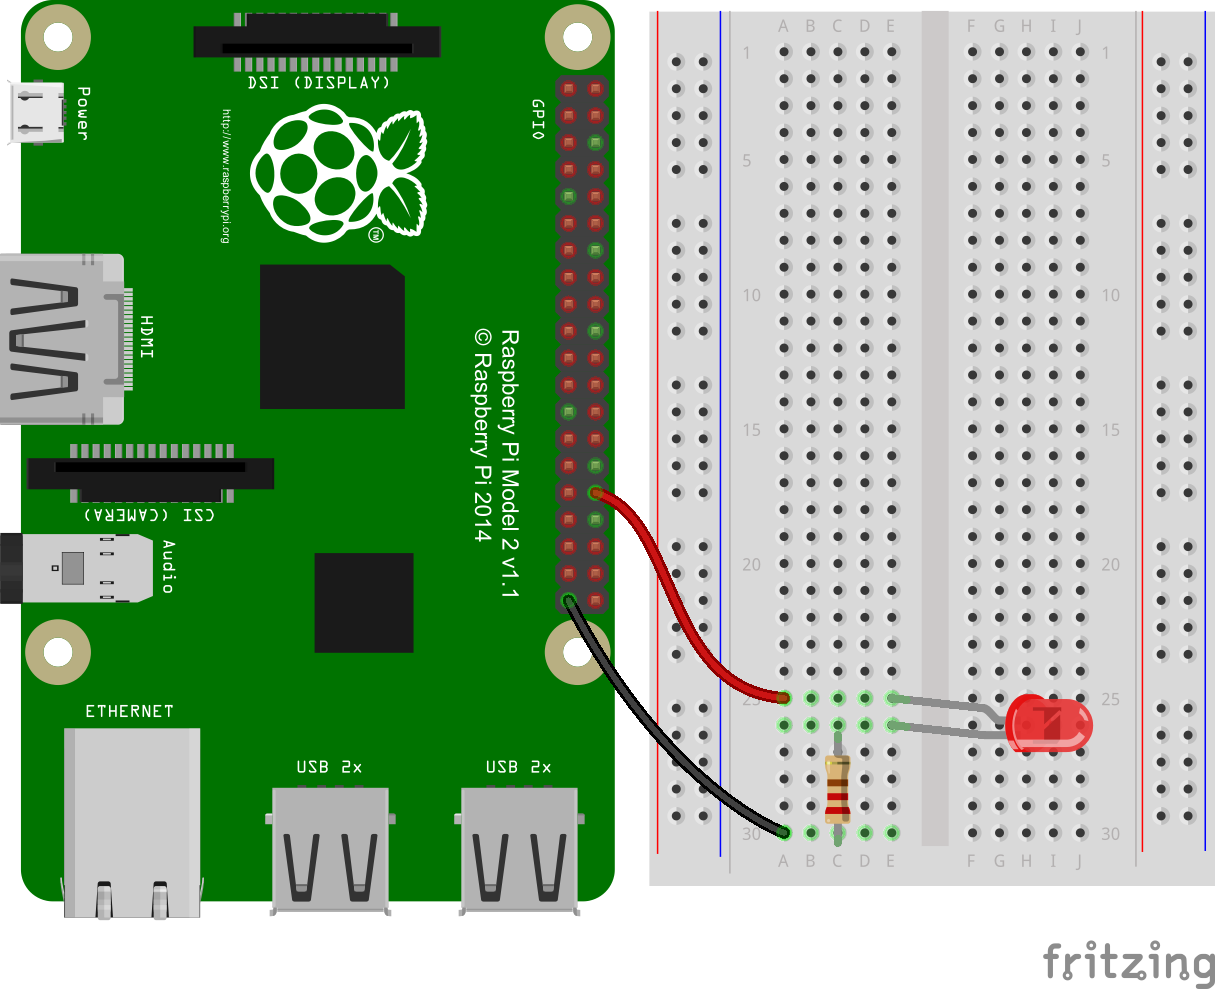
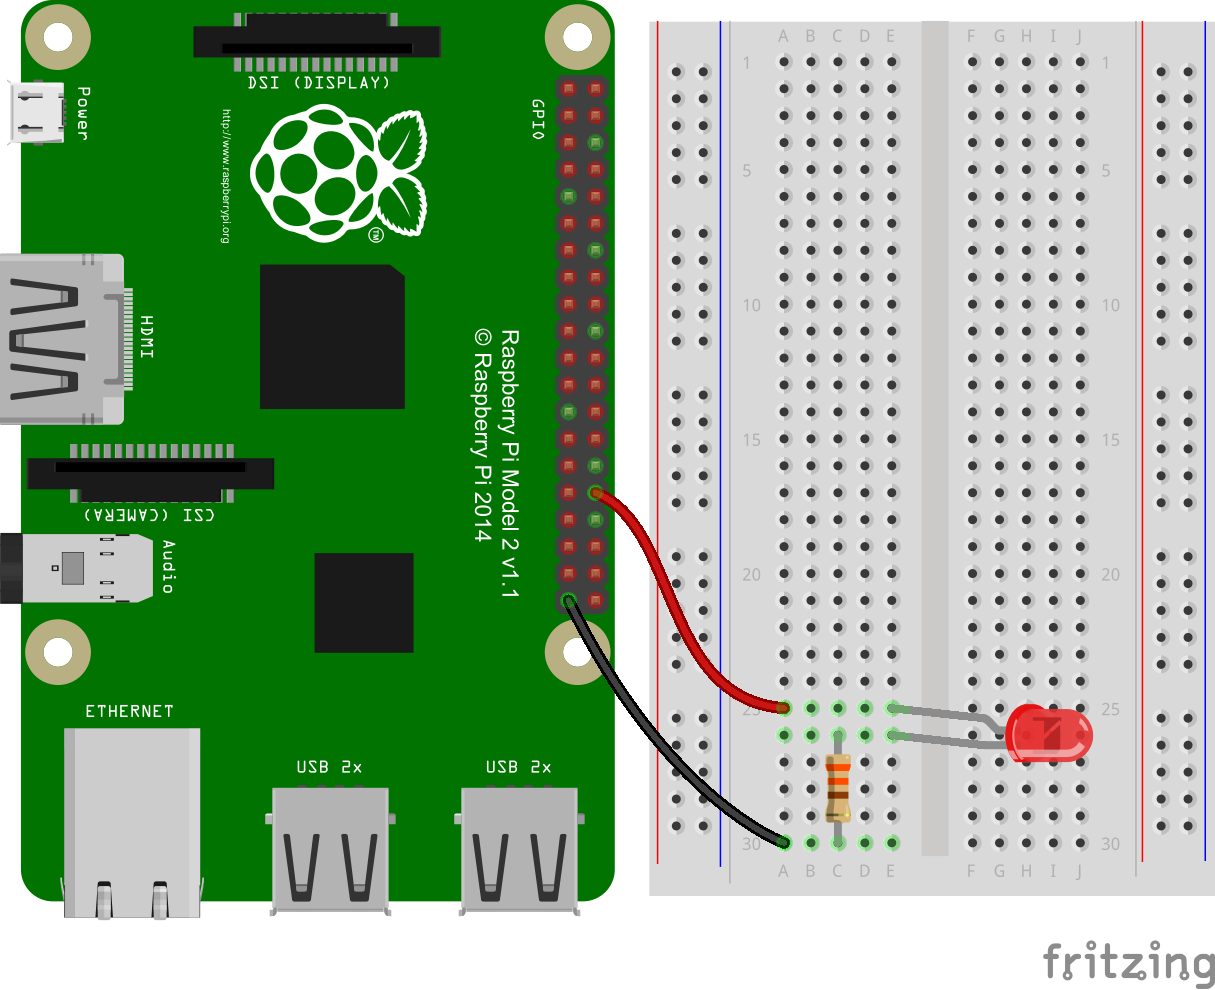
Lab 03 code and layout

diff --git a/pages/rpi2/rpi2_lab003.md b/pages/rpi2/rpi2_lab003.md
@@ -1,0 +1,336 @@
+---
+layout: page-fullwidth
+title: "Sending Data to the Cloud"
+subheadline: "Raspberry Pi IoT Lab 3"
+teaser: "In this lab you will build a Universal Windows Platform application that collects ambient light data and sends it to the Cloud."
+show_meta: true
+comments: true
+header: no
+breadcrumb: true
+categories:
+    - rpi2
+author: "Doug Seven"
+permalink: /rpi2/03/
+---
+
+### Table of Contents
+*  Auto generated table of contents
+{:toc}
+
+If you haven't already done so, please follow the instructions in [Lab 00: Getting Started](/rpi2/00/) section.
+
+In this lab you will build a Universal Windows Platform application that detects ambient light and sends the data that is being collected to Azure IoT Hub. In following lab you will build a data pipeline to process the incoming data stream and output it to a visualization tool.
+
+## Bill of Materials
+What you will need:
+
+1. [Raspberry Pi 2 - $42.00](http://www.amazon.com/Raspberry-Pi-Model-Project-Board/dp/B00T2U7R7I/)
+2. [5V 2A Switching Power Supply w/ 20AWG 6' MicroUSB Cable - $7.95](https://www.adafruit.com/product/1995)
+3. [(2) Jumper wires (Male to Female) - $1.95](https://www.adafruit.com/product/1954)
+4. [(1) Red LED - 25 for $8.00](http://www.adafruit.com/products/297)
+5. [(1) 330 Ohm resistors - 100 for $3.90](http://www.amazon.com/E-Projects-Resistors-Watt-330R-Pieces/dp/B00BVOR6IS/)
+6. 8GB micro SD card - class 10 or better. Microsoft suggests [this one](http://www.amazon.com/gp/product/B00IVPU786) or [this one](http://www.amazon.com/SanDisk-Ultra-Micro-SDHC-16GB/dp/9966573445).
+7. Micro SD card writer
+
+
+## Wire Up the RPi2
+Wire up the RPi2 according to this diagram.
+
+<img src="/images/rpi2/rpi2_lab03_bb.png"/>
+
+
+This is a dump of all of the code while I write the lab. This is intended for the folks testign this lab as I write it.
+
+{% highlight csharp %}
+using System;
+using Windows.UI.Xaml;
+using Windows.UI.Xaml.Controls;
+using Windows.UI.Xaml.Media;
+
+using Windows.Devices.Gpio;
+using Windows.Devices.Spi;
+using Windows.Devices.Enumeration;
+using System.Threading;
+using System.Threading.Tasks;
+using System.Text;
+using Microsoft.Azure.Devices.Client;
+
+namespace Lab03_photoresistor
+{
+    /// <summary>
+    /// An empty page that can be used on its own or navigated to within a Frame.
+    /// </summary>
+    public sealed partial class MainPage : Page
+    {
+        enum AdcDevice { None, MCP3002, MCP3208 };
+        
+        // Use the device specific connection string here
+        private const string IOT_HUB_CONN_STRING = "YOUR DEVICE SPECIFIC CONNECTION STRING GOES HERE";
+        // Set this to the appropriate ADC
+        private AdcDevice ADC_DEVICE = AdcDevice.MCP3002;
+
+        private const Int32 SPI_CHIP_SELECT_LINE = 0; // Line 0 maps to physical pin 24 on the RPi2
+        private const string SPI_CONTROLLER_NAME = "SPI0";
+        private const byte MCP3002_CONFIG = 0x68; // 01101000 channel configuration data for MCP3002
+        private const byte MCP3208_CONFIG = 0x06; // 00000110 channel configuration data for MCP3208
+        private const int RED_LED_PIN = 4;
+        private const int WHITE_LED_PIN = 5;
+
+        private SolidColorBrush redFill = new SolidColorBrush(Windows.UI.Colors.Red);
+        private SolidColorBrush grayFill = new SolidColorBrush(Windows.UI.Colors.LightGray);
+
+        DeviceClient deviceClient;
+        private GpioPin redLedPin;
+        private GpioPin whiteLedPin;
+        private SpiDevice SpiAdc;
+        private Timer readSensorTimer;
+        private Timer sendMessageTimer;
+        private int adcValue;
+
+        public MainPage()
+        {
+            this.InitializeComponent();
+            // Register the Unloaded event to clean up on exit
+            Unloaded += MainPage_Unloaded;
+            // Initialize GPIO and SPI
+            InitAll();
+        }
+
+        private async void InitAll()
+        {
+            if (ADC_DEVICE == AdcDevice.None)
+            {
+                StatusText.Text = "Please change the ADC_DEVICE variable to either MPC3002 or MPC3208.";
+                return;
+            }
+
+            try
+            {
+                InitGpio();
+                await InitSpi();
+            }
+            catch (Exception ex)
+            {
+                StatusText.Text = ex.Message;
+                return;
+            }
+
+            deviceClient = DeviceClient.CreateFromConnectionString(IOT_HUB_CONN_STRING);
+            // Read sensors ever 25ms and refresh the UI
+            readSensorTimer = new Timer(this.SensorTimer_Tick, null, 0, 25);
+            // Send messages to Azure IoT Hub every one-second
+            sendMessageTimer = new Timer(this.MessageTimer_Tick, null, 0, 1000);
+            // Initiate a check for incoming Cloud-to-Device messages
+            ReceiveDataFromAzure();
+
+            StatusText.Text = "Status: Running";
+        }
+
+        public async Task ReceiveDataFromAzure()
+        {
+            Message receivedMessage;
+            string messageData;
+
+            while (true)
+            {
+                receivedMessage = await deviceClient.ReceiveAsync();
+
+                if (receivedMessage != null)
+                {
+                    messageData = Encoding.ASCII.GetString(receivedMessage.GetBytes());
+
+                    // Message:"10/26/2015 1:08:06 PM - LED:on"
+                    if (messageData.Contains("LED:on"))
+                    {
+                        redLedPin.Write(GpioPinValue.Low);
+                    }
+                    else if(messageData.Contains("LED:off"))
+                    {
+                        redLedPin.Write(GpioPinValue.High);
+                    }
+
+                    // UI updates must be invoked on the UI thread
+                    var task = this.Dispatcher.RunAsync(Windows.UI.Core.CoreDispatcherPriority.Normal, () =>
+                    {
+                        MessageLog.Text = "Received message: " + messageData + "\n" + MessageLog.Text;
+                    });
+
+                    await deviceClient.CompleteAsync(receivedMessage);
+                }
+            }
+        }
+
+        private void MessageTimer_Tick(object state)
+        {
+            SendMessageToIoTHub(adcValue);
+        }
+
+        private async Task SendMessageToIoTHub(int darkness)
+        {
+            try {
+                var text = "{\"deviceId\": \"Thinglabs00\", \"location\": \"Home Office\", \"data\": \"darkness:" +
+                    darkness + "\", \"localTimestamp\": \"" + 
+                    DateTime.Now.ToLocalTime().ToString() +"\"}";
+
+
+                // UI updates must be invoked on the UI thread
+                var task = this.Dispatcher.RunAsync(Windows.UI.Core.CoreDispatcherPriority.Normal, () =>
+                {
+                    MessageLog.Text = "Sending message: " + text + "\n" + MessageLog.Text;
+                });
+
+                var msg = new Message(Encoding.UTF8.GetBytes(text));
+
+                await deviceClient.SendEventAsync(msg);
+            }
+            catch(Exception ex)
+            {
+                // UI updates must be invoked on the UI thread
+                var task = this.Dispatcher.RunAsync(Windows.UI.Core.CoreDispatcherPriority.Normal, () =>
+                {
+                    MessageLog.Text = "Sending message: " + ex.Message + "\n" + MessageLog.Text;
+                });
+            }
+        }
+
+        private void SensorTimer_Tick(object state)
+        {
+            ReadAdc();
+            LightLed();
+        }
+
+        private void LightLed()
+        {
+            int adcResolution = 0;
+            SolidColorBrush fillColor = grayFill;
+
+            switch (ADC_DEVICE)
+            {
+                case AdcDevice.MCP3002:
+                    adcResolution = 1024;
+                    break;
+                case AdcDevice.MCP3208:
+                    adcResolution = 4096;
+                    break;
+            }
+
+            // Tunr on LED if potentiometer is rotated more than halfway
+            if (adcValue > adcResolution / 2)
+            {
+                redLedPin.Write(GpioPinValue.Low);
+                fillColor = redFill;
+            }
+            else
+            {
+                redLedPin.Write(GpioPinValue.High);
+                fillColor = grayFill;
+            }
+
+            // UI updates must be invoked on the UI thread
+            var task = this.Dispatcher.RunAsync(Windows.UI.Core.CoreDispatcherPriority.Normal, () =>
+            {
+                IndicatorBar.Fill = fillColor;
+            });
+        }
+
+        private void ReadAdc()
+        {
+            byte[] readBuffer = new byte[3]; // Buffer to hold read data
+            byte[] writeBuffer = new byte[3] { 0x00, 0x00, 0x00 };
+
+            switch (ADC_DEVICE)
+            {
+                case AdcDevice.MCP3002:
+                    writeBuffer[0] = MCP3002_CONFIG;
+                    break;
+                case AdcDevice.MCP3208:
+                    writeBuffer[0] = MCP3208_CONFIG;
+                    break;
+            }
+
+            SpiAdc.TransferFullDuplex(writeBuffer, readBuffer); // Read data from ADC
+            adcValue = convertToInt(readBuffer);
+
+            // UI updates must be invoked on the UI thread
+            var task = this.Dispatcher.RunAsync(Windows.UI.Core.CoreDispatcherPriority.Normal, () =>
+            {
+                textPlaceHolder.Text = adcValue.ToString();
+                IndicatorBar.Width = Map(adcValue, 0, 1023, 0, 300);
+            });
+        }
+
+        private double Map(int val, int inMin, int inMax, int outMin, int outMax)
+        {
+            return Math.Round((double)((val - inMin) * (outMax - outMin) / (inMax - inMin) + outMin));
+        }
+
+        private int convertToInt(byte[] data)
+        {
+            int result = 0;
+            switch (ADC_DEVICE)
+            {
+                case AdcDevice.MCP3002:
+                    result = data[0] & 0x03;
+                    result <<= 8;
+                    result += data[1];
+                    break;
+                case AdcDevice.MCP3208:
+                    result = data[1] & 0x0F;
+                    result <<= 8;
+                    result += data[2];
+                    break;
+            }
+
+            return result;
+        }
+
+        private async Task InitSpi()
+        {
+            try
+            {
+                var settings = new SpiConnectionSettings(SPI_CHIP_SELECT_LINE);
+                settings.ClockFrequency = 500000; // 0.5 MHz clock rate
+                settings.Mode = SpiMode.Mode0; // The ADC expects idle-low clock polarity so we use Mode0
+
+                string spiAqs = SpiDevice.GetDeviceSelector(SPI_CONTROLLER_NAME);
+                var deviceInfo = await DeviceInformation.FindAllAsync(spiAqs);
+                SpiAdc = await SpiDevice.FromIdAsync(deviceInfo[0].Id, settings);
+
+            }
+            catch (Exception ex)
+            {
+                throw new Exception("SPI initialization failed.", ex);
+            }
+        }
+
+        private void InitGpio()
+        {
+            var gpio = GpioController.GetDefault();
+
+            if (gpio == null)
+            {
+                throw new Exception("There is no GPIO controller on this device.");
+            }
+
+            redLedPin = gpio.OpenPin(RED_LED_PIN);
+            redLedPin.Write(GpioPinValue.High);
+            redLedPin.SetDriveMode(GpioPinDriveMode.Output);
+        }
+
+        private void MainPage_Unloaded(object sender, RoutedEventArgs e)
+        {
+            if (SpiAdc != null)
+            {
+                SpiAdc.Dispose();
+            }
+
+            if (redLedPin != null)
+            {
+                redLedPin.Dispose();
+            }
+
+        }
+    }
+}
+
+{% endhighlight %}
